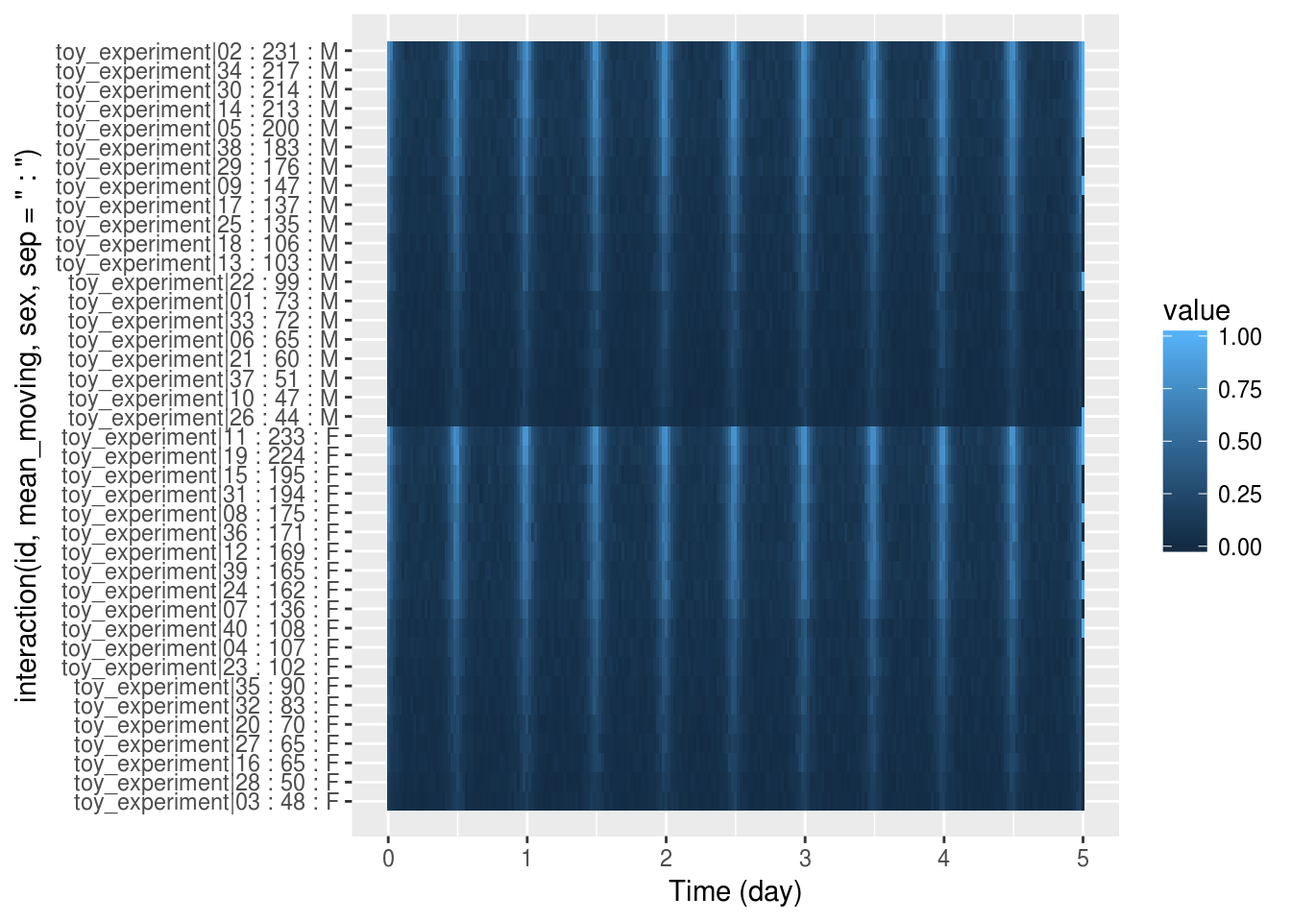
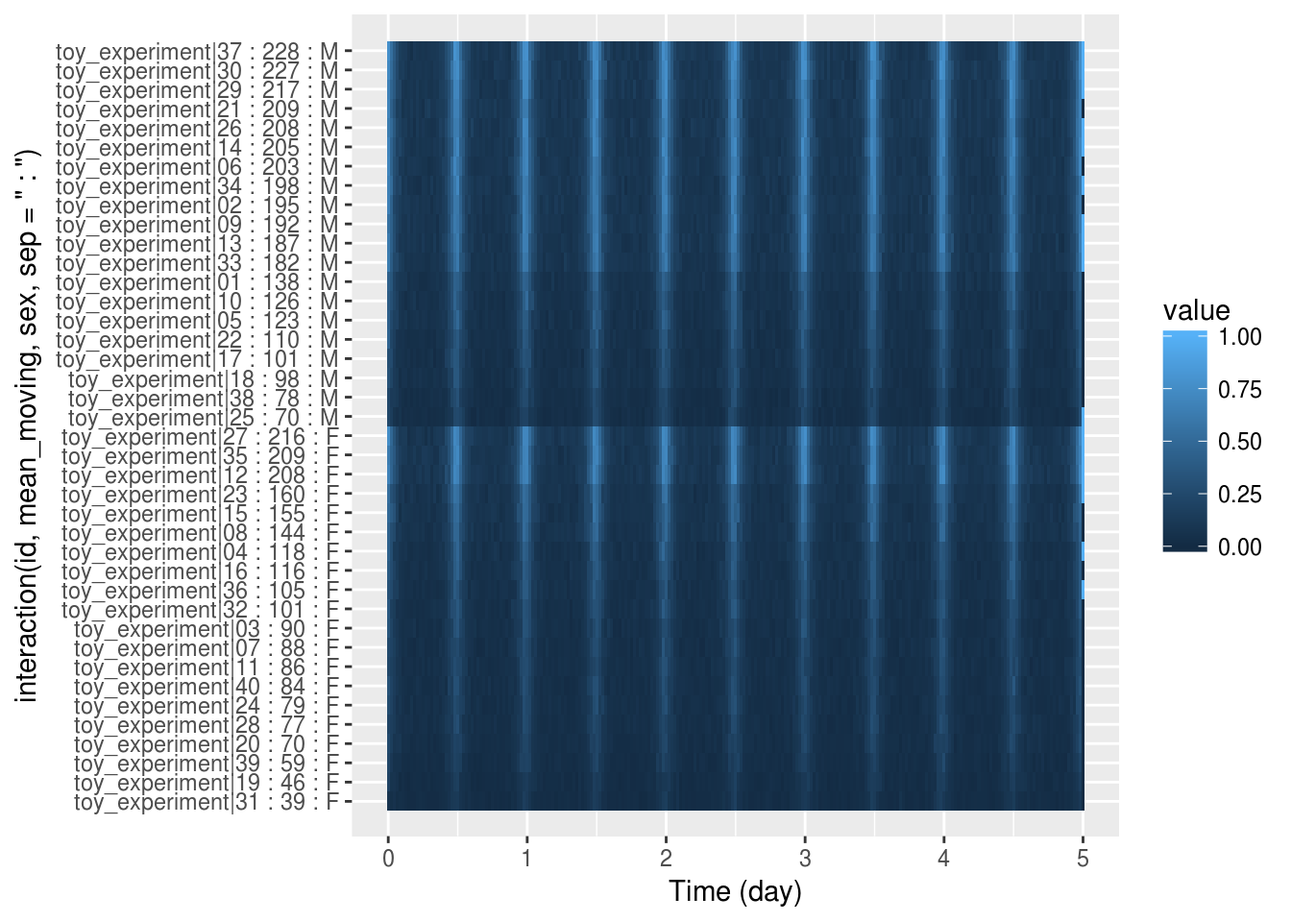
Automatic deployment after 492e4b5802642247e9f9b572acf6d10e69f0e62c [ci skip]

diff --git a/ggetho.html b/ggetho.html
@@ -25,7 +25,7 @@
 <meta name="author" content="Quentin Geissmann">
 
 
-<meta name="date" content="2017-11-21">
+<meta name="date" content="2017-11-22">
 
   <meta name="viewport" content="width=device-width, initial-scale=1">
   <meta name="apple-mobile-web-app-capable" content="yes">
@@ -153,6 +153,8 @@ code > span.in { color: #60a0b0; font-weight: bold; font-style: italic; } /* Inf
 <li class="chapter" data-level="" data-path="ggetho.html"><a href="ggetho.html#basics"><i class="fa fa-check"></i>Basics</a></li>
 <li class="chapter" data-level="" data-path="ggetho.html"><a href="ggetho.html#changing-ld-colours"><i class="fa fa-check"></i>Changing LD colours</a></li>
 <li class="chapter" data-level="" data-path="ggetho.html"><a href="ggetho.html#ld-in-the-background"><i class="fa fa-check"></i>LD in the background</a></li>
+<li class="chapter" data-level="" data-path="ggetho.html"><a href="ggetho.html#phase-and-period"><i class="fa fa-check"></i>Phase and period</a></li>
+<li class="chapter" data-level="" data-path="ggetho.html"><a href="ggetho.html#regime-change"><i class="fa fa-check"></i>Regime change</a></li>
 </ul></li>
 <li class="chapter" data-level="" data-path="ggetho.html"><a href="ggetho.html#coordinate-and-scales"><i class="fa fa-check"></i>Coordinate and scales</a><ul>
 <li class="chapter" data-level="" data-path="ggetho.html"><a href="ggetho.html#plot-limits"><i class="fa fa-check"></i>Plot limits</a></li>
@@ -188,12 +190,12 @@ code > span.in { color: #60a0b0; font-weight: bold; font-style: italic; } /* Inf
 <!-- ![Some sort of slide show?](assets/ethoscope.jpg) -->
 <div id="lessons-from-ggplot" class="section level2 unnumbered">
 <h2>Lessons from ggplot</h2>
-<p>In the previous tutorials, we have used <code>ggetho</code> to visualise out behavioural data. This section will explain furhter how this packakescan be used to produce flexible plots and how it integrates with <code>ggplot2</code>.</p>
-<p><a href="http://ggplot2.org/">ggplot2</a> is one of the most popular visualisation tool, and an unavoidable <code>R</code> package. It implements the powerful concepts of the “Grammar of graphics”. The package <code>ggetho</code>, which we discuss here, extends <code>ggplot</code> for the specific case of behavioural analysis. At this stage, you really want to have some familiarity with <code>ggplot2</code> so you understand its logic. You will find a fair numbers of <a href="https://www.youtube.com/watch?v=TaxJwC_MP9Q">videos</a> and <a href="http://ggplot2.org/book/">books</a> online.</p>
+<p>In the previous tutorials, we have used <code>ggetho</code> to visualise out behavioural data. This section will explain further how this package can be used to produce flexible plots and how it integrates with <code>ggplot2</code>.</p>
+<p><a href="http://ggplot2.org/">ggplot2</a> is one of the most popular visualisation tool and an unavoidable <code>R</code> package. It implements the powerful concepts of the <a href="https://www.cs.uic.edu/~wilkinson/TheGrammarOfGraphics/GOG.html">“Grammar of graphics”</a>. The package <code>ggetho</code>, which we discuss here, extends <code>ggplot</code> for the specific case of behavioural analysis. At this stage, you really want to have some familiarity with <code>ggplot2</code> so you understand its logic. You will find a fair numbers of <a href="https://www.youtube.com/watch?v=TaxJwC_MP9Q">videos</a> and <a href="http://ggplot2.org/book/">books</a> online.</p>
 </div>
 <div id="some-behavioural-data" class="section level2 unnumbered">
 <h2>Some behavioural data</h2>
-<p>In this section, we will <strong>simulate toy behavioural data</strong>. For that, we start by making some arbitrary metadata. Here, we have 40 animals, condition A vs B, and sex, male (“M”) or female (“F”).</p>
+<p>In this section, we will <strong>simulate toy behavioural data</strong>. For that, we start by making some arbitrary metadata. Here, we have 40 animals, condition “A” vs “B”, and sex, male (“M”) or female (“F”).</p>
 <div class="sourceCode"><pre class="sourceCode r"><code class="sourceCode r"><span class="kw">library</span>(ggetho)</code></pre></div>
 <pre><code>## Loading required package: ggplot2</code></pre>
 <div class="sourceCode"><pre class="sourceCode r"><code class="sourceCode r">metadata &lt;-<span class="st"> </span><span class="kw">data.table</span>(<span class="dt">id=</span><span class="kw">sprintf</span>(<span class="st">&quot;toy_experiment|%02d&quot;</span> , <span class="dv">1</span><span class="op">:</span><span class="dv">40</span>), <span class="dt">region_id=</span><span class="dv">1</span><span class="op">:</span><span class="dv">40</span>,
@@ -207,7 +209,7 @@ code > span.in { color: #60a0b0; font-weight: bold; font-style: italic; } /* Inf
 ## 4: toy_experiment|04         4         B   F
 ## 5: toy_experiment|05         5         A   M
 ## 6: toy_experiment|06         6         B   M</code></pre>
-<div class="sourceCode"><pre class="sourceCode r"><code class="sourceCode r">dt &lt;-<span class="st"> </span><span class="kw">toy_activity_data</span>(metadata, <span class="dt">seed=</span><span class="dv">3</span>)</code></pre></div>
+<div class="sourceCode"><pre class="sourceCode r"><code class="sourceCode r">dt &lt;-<span class="st"> </span><span class="kw">toy_activity_data</span>(metadata, <span class="dt">seed=</span><span class="dv">107</span>)</code></pre></div>
 <p>Now, we have a <a href="behavr.html">behavr</a> object, <code>dt</code>:</p>
 <div class="sourceCode"><pre class="sourceCode r"><code class="sourceCode r"><span class="kw">summary</span>(dt)</code></pre></div>
 <pre><code>## behavr table with:
@@ -220,7 +222,7 @@ code > span.in { color: #60a0b0; font-weight: bold; font-style: italic; } /* Inf
 </div>
 <div id="the-ggetho-function" class="section level2 unnumbered">
 <h2>The <code>ggetho()</code> function</h2>
-<p><code>ggetho()</code> is the core function. It expresses the <strong>relationship between variables</strong>. In this respect, it works very much like <code>ggplot()</code>, but it also preprocesses the data.</p>
+<p><code>ggetho()</code> is the core function. It expresses the <strong>relationship between variables</strong>. In this respect, it works very much like <code>ggplot()</code>, but it also pre-processes the data.</p>
 <p>For example if we would like:</p>
 <ul>
 <li>The proportion of time spent <strong>moving, on the y axis</strong></li>
@@ -232,7 +234,7 @@ pl</code></pre></div>
 <p><img src="bookdown-demo_files/figure-html/unnamed-chunk-19-1.png" width="672" /></p>
 <p>This generates an <strong>empty plot</strong> this is normal because we have, so far, <strong>no layer</strong>. We will see some layers very soon!</p>
 <p>The role of ggetho is to express a relationship between variables and to <strong>compute a summary</strong>, over a certain time window, of a variable of interest <strong>for each individual</strong>.</p>
-<p>Importantly, you decide which variable you want to plot. For instance, you could be interested in things like the number (sum) of beam crosses, or the average position</p>
+<p>Importantly, <strong>you decide which variable you want to plot</strong>. For instance, you could be interested in things like the number (sum) of beam crosses or the average position.</p>
 </div>
 <div id="tile-plots" class="section level2 unnumbered">
 <h2>Tile plots</h2>
@@ -242,13 +244,13 @@ pl</code></pre></div>
 <div class="sourceCode"><pre class="sourceCode r"><code class="sourceCode r">pl &lt;-<span class="st"> </span><span class="kw">ggetho</span>(dt, <span class="kw">aes</span>(<span class="dt">x=</span>t, <span class="dt">y=</span>id, <span class="dt">z=</span>moving)) <span class="op">+</span><span class="st"> </span><span class="kw">stat_tile_etho</span>()
 pl</code></pre></div>
 <p><img src="bookdown-demo_files/figure-html/unnamed-chunk-20-1.png" width="672" /></p>
-<p>By defaut, each pixel is the <em>mean</em> (<code>summary_FUN = mean</code>, in <code>ggetho</code>), over 30 min (<code>summary_time_window = mins(30)</code>, in <code>ggetho()</code>). Also, note that the default is <code>x=t</code> and <code>y=id</code>, so we could just obtain exactly the same with <code>ggetho(dt, aes(z=moving)) + stat_tile_etho()</code>.</p>
+<p>By defaut, each pixel is the <strong>mean</strong> (<code>summary_FUN = mean</code>, in <code>ggetho</code>), over 30 min (<code>summary_time_window = mins(30)</code>, in <code>ggetho()</code>). Also, note that the default is <code>x=t</code> and <code>y=id</code>, so we could just obtain exactly the same with <code>ggetho(dt, aes(z=moving)) + stat_tile_etho()</code>.</p>
 </div>
 <div id="sorted-individual" class="section level3 unnumbered">
 <h3>Sorted individual</h3>
-<p>Sometimes, we want to sort individuals based on a metavariable (discrete or continuous). For instance let us compute the overall average fraction of time spent moving to then sort individuals from low to high movers:</p>
+<p>Sometimes, we want to sort individuals based on a metavariable (discrete or continuous). For instance let us compute the overall average fraction of time spent moving, <strong>add it to the metadata</strong>, to then sort individuals from low to high movers:</p>
 <p>First, we add a new metavariable (<code>mean_moving</code>):</p>
-<div class="sourceCode"><pre class="sourceCode r"><code class="sourceCode r"><span class="co"># the average time spent moving per 1000</span>
+<div class="sourceCode"><pre class="sourceCode r"><code class="sourceCode r"><span class="co"># the average time spent moving per 1000 (rounded)</span>
 mean_mov_dt &lt;-<span class="st"> </span>dt[, .(<span class="dt">mean_moving =</span> <span class="kw">round</span>(<span class="kw">mean</span>(moving) <span class="op">*</span><span class="st"> </span><span class="dv">1000</span>)), by=id]
 <span class="co"># join curent meta and the summary table</span>
 new_meta &lt;-<span class="st"> </span>dt[mean_mov_dt, meta=T]
@@ -256,28 +258,29 @@ new_meta &lt;-<span class="st"> </span>dt[mean_mov_dt, meta=T]
 <span class="kw">setmeta</span>(dt, new_meta)
 <span class="kw">head</span>(dt[<span class="dt">meta=</span>T])</code></pre></div>
 <pre><code>##                   id region_id condition sex mean_moving
-## 1: toy_experiment|01         1         A   M          73
-## 2: toy_experiment|02         2         B   M         231
-## 3: toy_experiment|03         3         A   F          48
-## 4: toy_experiment|04         4         B   F         107
-## 5: toy_experiment|05         5         A   M         200
-## 6: toy_experiment|06         6         B   M          65</code></pre>
+## 1: toy_experiment|01         1         A   M         138
+## 2: toy_experiment|02         2         B   M         195
+## 3: toy_experiment|03         3         A   F          90
+## 4: toy_experiment|04         4         B   F         118
+## 5: toy_experiment|05         5         A   M         123
+## 6: toy_experiment|06         6         B   M         203</code></pre>
 <p>Now, we can express a new relationship where we show the <em>interaction</em> between our custom variable and id, on the y axis:</p>
-<div class="sourceCode"><pre class="sourceCode r"><code class="sourceCode r">pl &lt;-<span class="st"> </span><span class="kw">ggetho</span>(dt, <span class="kw">aes</span>(<span class="dt">x=</span>t, <span class="dt">y=</span><span class="kw">interaction</span>(id, mean_moving, <span class="dt">sep =</span> <span class="st">&quot; : &quot;</span>), <span class="dt">z=</span>moving)) <span class="op">+</span><span class="st"> </span>
+<div class="sourceCode"><pre class="sourceCode r"><code class="sourceCode r">pl &lt;-<span class="st"> </span><span class="kw">ggetho</span>(dt, <span class="kw">aes</span>(<span class="dt">x=</span>t, <span class="dt">y=</span><span class="kw">interaction</span>(id, mean_moving, <span class="dt">sep =</span> <span class="st">&quot; : &quot;</span>), <span class="dt">z=</span>moving)) <span class="op">+</span>
 <span class="st">              </span><span class="kw">stat_tile_etho</span>()
 pl</code></pre></div>
-<p><img src="bookdown-demo_files/figure-html/unnamed-chunk-22-1.png" width="672" /> Since we use <code>&quot; : &quot;</code> as a separator, we have, on the y axis, names as <code>&lt;id&gt; : &lt;mean_sleep&gt;</code>. You can extend this concept to sort also by <em>males vs females</em>:</p>
-<div class="sourceCode"><pre class="sourceCode r"><code class="sourceCode r">pl &lt;-<span class="st"> </span><span class="kw">ggetho</span>(dt, <span class="kw">aes</span>(<span class="dt">x=</span>t, <span class="dt">y=</span><span class="kw">interaction</span>(id, mean_moving, sex, <span class="dt">sep =</span> <span class="st">&quot; : &quot;</span>), <span class="dt">z=</span>moving)) <span class="op">+</span><span class="st"> </span>
+<p><img src="bookdown-demo_files/figure-html/unnamed-chunk-22-1.png" width="672" /></p>
+<p>Since we use <code>&quot; : &quot;</code> as a separator, we have, on the y axis, names as <code>&lt;id&gt; : &lt;mean_sleep&gt;</code>. You can extend this concept to sort also by <em>males vs females</em>:</p>
+<div class="sourceCode"><pre class="sourceCode r"><code class="sourceCode r">pl &lt;-<span class="st"> </span><span class="kw">ggetho</span>(dt, <span class="kw">aes</span>(<span class="dt">x=</span>t, <span class="dt">y=</span><span class="kw">interaction</span>(id, mean_moving, sex, <span class="dt">sep =</span> <span class="st">&quot; : &quot;</span>), <span class="dt">z=</span>moving)) <span class="op">+</span>
 <span class="st">              </span><span class="kw">stat_tile_etho</span>()
 pl</code></pre></div>
 <p><img src="bookdown-demo_files/figure-html/unnamed-chunk-23-1.png" width="672" /></p>
 </div>
 <div id="group-averages" class="section level3 unnumbered">
 <h3>Group averages</h3>
-<p>Sometimes, we also want to aggregate inviduals per group. For instance, males <strong>average</strong> vs females <strong>average</strong>:</p>
+<p>Sometimes, we also want to aggregate individuals per group. For instance, males <strong>average</strong> vs females <strong>average</strong>:</p>
 <div class="sourceCode"><pre class="sourceCode r"><code class="sourceCode r">pl &lt;-<span class="st"> </span><span class="kw">ggetho</span>(dt, <span class="kw">aes</span>(<span class="dt">x=</span>t, <span class="dt">y=</span>sex, <span class="dt">z=</span>moving)) <span class="op">+</span><span class="st"> </span><span class="kw">stat_tile_etho</span>()
 pl</code></pre></div>
-<p><img src="bookdown-demo_files/figure-html/unnamed-chunk-24-1.png" width="672" /> In this context, every row is not an individual anymore, but a group. The <code>method</code> argument of <code>stat_tile_etho()</code> allows you to use other aggregates (median, max, min, …).</p>
+<p><img src="bookdown-demo_files/figure-html/unnamed-chunk-24-1.png" width="672" /> In this context, every row is not an individual any more, but a group. The <code>method</code> argument of <code>stat_tile_etho()</code> allows you to use other aggregates (median, max, min, …).</p>
 </div>
 </div>
 <div id="population-plots" class="section level2 unnumbered">
@@ -297,14 +300,14 @@ pl</code></pre></div>
 pl</code></pre></div>
 <p><img src="bookdown-demo_files/figure-html/unnamed-chunk-26-1.png" width="672" /></p>
 <p>Another way, is to use <code>ggplot</code>’s faceting system:</p>
-<div class="sourceCode"><pre class="sourceCode r"><code class="sourceCode r">pl &lt;-<span class="st"> </span><span class="kw">ggetho</span>(dt, <span class="kw">aes</span>(<span class="dt">x=</span>t, <span class="dt">y=</span>moving)) <span class="op">+</span><span class="st"> </span><span class="kw">stat_pop_etho</span>() <span class="op">+</span><span class="st"> </span>
-<span class="st">            </span><span class="kw">facet_grid</span>(. <span class="op">~</span><span class="st"> </span>sex)
+<div class="sourceCode"><pre class="sourceCode r"><code class="sourceCode r">pl &lt;-<span class="st"> </span><span class="kw">ggetho</span>(dt, <span class="kw">aes</span>(<span class="dt">x=</span>t, <span class="dt">y=</span>moving)) <span class="op">+</span><span class="st"> </span><span class="kw">stat_pop_etho</span>() <span class="op">+</span>
+<span class="st">            </span><span class="kw">facet_grid</span>(sex <span class="op">~</span><span class="st"> </span>.)
 pl</code></pre></div>
 <p><img src="bookdown-demo_files/figure-html/unnamed-chunk-27-1.png" width="672" /></p>
 <p>Of course, you can combine both when you have more than one relevant metavariable:</p>
-<div class="sourceCode"><pre class="sourceCode r"><code class="sourceCode r">pl &lt;-<span class="st"> </span><span class="kw">ggetho</span>(dt, <span class="kw">aes</span>(<span class="dt">x=</span>t, <span class="dt">y=</span>moving, <span class="dt">colour =</span> sex)) <span class="op">+</span><span class="st"> </span>
-<span class="st">              </span><span class="kw">stat_pop_etho</span>() <span class="op">+</span><span class="st"> </span>
-<span class="st">              </span><span class="kw">facet_grid</span>(. <span class="op">~</span><span class="st"> </span>condition)
+<div class="sourceCode"><pre class="sourceCode r"><code class="sourceCode r">pl &lt;-<span class="st"> </span><span class="kw">ggetho</span>(dt, <span class="kw">aes</span>(<span class="dt">x=</span>t, <span class="dt">y=</span>moving, <span class="dt">colour =</span> sex)) <span class="op">+</span>
+<span class="st">              </span><span class="kw">stat_pop_etho</span>() <span class="op">+</span>
+<span class="st">              </span><span class="kw">facet_grid</span>( condition <span class="op">~</span><span class="st"> </span>.)
 pl</code></pre></div>
 <p><img src="bookdown-demo_files/figure-html/unnamed-chunk-28-1.png" width="672" /></p>
 </div>
@@ -337,12 +340,41 @@ pl</code></pre></div>
 <div id="ld-in-the-background" class="section level3 unnumbered">
 <h3>LD in the background</h3>
 <p>To put the annotation in the background, we can invert the order of the layers, set the heigh of the annotation to 1 (100%) and add some transparency (<code>alpha = 0.3</code>). We also remove the outline of the boxes:</p>
-<div class="sourceCode"><pre class="sourceCode r"><code class="sourceCode r">pl &lt;-<span class="st"> </span><span class="kw">ggetho</span>(dt, <span class="kw">aes</span>(<span class="dt">x=</span>t, <span class="dt">y=</span>moving)) <span class="op">+</span><span class="st"> </span>
-<span class="st">            </span><span class="kw">stat_ld_annotations</span>(<span class="dt">height=</span><span class="dv">1</span>, <span class="dt">alpha=</span><span class="fl">0.3</span>, <span class="dt">outline =</span> <span class="ot">NA</span>) <span class="op">+</span><span class="st"> </span>
+<div class="sourceCode"><pre class="sourceCode r"><code class="sourceCode r">pl &lt;-<span class="st"> </span><span class="kw">ggetho</span>(dt, <span class="kw">aes</span>(<span class="dt">x=</span>t, <span class="dt">y=</span>moving)) <span class="op">+</span>
+<span class="st">            </span><span class="kw">stat_ld_annotations</span>(<span class="dt">height=</span><span class="dv">1</span>, <span class="dt">alpha=</span><span class="fl">0.3</span>, <span class="dt">outline =</span> <span class="ot">NA</span>) <span class="op">+</span>
 <span class="st">            </span><span class="kw">stat_pop_etho</span>()
 pl</code></pre></div>
 <p><img src="bookdown-demo_files/figure-html/unnamed-chunk-32-1.png" width="672" /></p>
-<p>You can also play with the phase and periods of the annotations (see the documentation).</p>
+</div>
+<div id="phase-and-period" class="section level3 unnumbered">
+<h3>Phase and period</h3>
+<p>Sometimes you want to show annotations with different phases and periods. For instance, here, we shift the LD annotations 1h forward:</p>
+<div class="sourceCode"><pre class="sourceCode r"><code class="sourceCode r">pl &lt;-<span class="st"> </span><span class="kw">ggetho</span>(dt, <span class="kw">aes</span>(<span class="dt">x=</span>t, <span class="dt">y=</span>moving)) <span class="op">+</span>
+<span class="st">            </span><span class="kw">stat_ld_annotations</span>(<span class="dt">phase =</span> <span class="kw">hours</span>(<span class="dv">1</span>)) <span class="op">+</span>
+<span class="st">            </span><span class="kw">stat_pop_etho</span>()
+pl</code></pre></div>
+<p><img src="bookdown-demo_files/figure-html/unnamed-chunk-33-1.png" width="672" /></p>
+<p>One can also plot over a period different from 24h, say 20h days:</p>
+<div class="sourceCode"><pre class="sourceCode r"><code class="sourceCode r">pl &lt;-<span class="st"> </span><span class="kw">ggetho</span>(dt, <span class="kw">aes</span>(<span class="dt">x=</span>t, <span class="dt">y=</span>moving)) <span class="op">+</span>
+<span class="st">            </span><span class="kw">stat_ld_annotations</span>(<span class="dt">period =</span> <span class="kw">hours</span>(<span class="dv">20</span>)) <span class="op">+</span>
+<span class="st">            </span><span class="kw">stat_pop_etho</span>()
+pl</code></pre></div>
+<p><img src="bookdown-demo_files/figure-html/unnamed-chunk-34-1.png" width="672" /></p>
+</div>
+<div id="regime-change" class="section level3 unnumbered">
+<h3>Regime change</h3>
+<p>When, you want to indicate a change in regime, say from LD to DD. A simple way is to use multiple layers with explicit start and end points:</p>
+<div class="sourceCode"><pre class="sourceCode r"><code class="sourceCode r">pl &lt;-<span class="st"> </span><span class="kw">ggetho</span>(dt, <span class="kw">aes</span>(<span class="dt">x=</span>t, <span class="dt">y=</span>moving)) <span class="op">+</span>
+<span class="st">            </span><span class="co"># the default annotation layer</span>
+<span class="st">            </span><span class="kw">stat_ld_annotations</span>() <span class="op">+</span>
+<span class="st">            </span><span class="co"># on top of it, a second layer that</span>
+<span class="st">            </span><span class="co"># starts at day 2 thoughout day 5,</span>
+<span class="st">            </span><span class="co"># and where L colour is grey</span>
+<span class="st">            </span><span class="kw">stat_ld_annotations</span>(<span class="dt">x_limits =</span> <span class="kw">days</span>(<span class="kw">c</span>(<span class="dv">2</span>,<span class="dv">5</span>)),
+                                <span class="dt">ld_colours =</span> <span class="kw">c</span>(<span class="st">&quot;grey&quot;</span>, <span class="st">&quot;black&quot;</span> )) <span class="op">+</span>
+<span class="st">            </span><span class="kw">stat_pop_etho</span>()
+pl</code></pre></div>
+<p><img src="bookdown-demo_files/figure-html/unnamed-chunk-35-1.png" width="672" /></p>
 </div>
 </div>
 <div id="coordinate-and-scales" class="section level2 unnumbered">
@@ -350,14 +382,15 @@ pl</code></pre></div>
 <div id="plot-limits" class="section level3 unnumbered">
 <h3>Plot limits</h3>
 <p>As <code>ggetho</code> creates regular ggplot objects, which we can extend. For instance, we can change the scales. For instance, put the y scale as a percentage between 0 and 100:</p>
-<div class="sourceCode"><pre class="sourceCode r"><code class="sourceCode r">pl &lt;-<span class="st"> </span><span class="kw">ggetho</span>(dt, <span class="kw">aes</span>(<span class="dt">x=</span>t, <span class="dt">y=</span>moving)) <span class="op">+</span><span class="st"> </span><span class="kw">stat_pop_etho</span>() <span class="op">+</span><span class="st"> </span>
+<div class="sourceCode"><pre class="sourceCode r"><code class="sourceCode r">pl &lt;-<span class="st"> </span><span class="kw">ggetho</span>(dt, <span class="kw">aes</span>(<span class="dt">x=</span>t, <span class="dt">y=</span>moving)) <span class="op">+</span><span class="st"> </span><span class="kw">stat_pop_etho</span>() <span class="op">+</span>
 <span class="st">        </span><span class="kw">stat_ld_annotations</span>()
-pl &lt;-<span class="st"> </span>pl <span class="op">+</span><span class="st"> </span><span class="kw">scale_y_continuous</span>(<span class="dt">limits =</span> <span class="kw">c</span>(<span class="dv">0</span>,<span class="dv">1</span>), <span class="dt">labels =</span> scales<span class="op">::</span>percent)
+pl &lt;-<span class="st"> </span>pl <span class="op">+</span><span class="st"> </span><span class="kw">scale_y_continuous</span>(<span class="dt">limits =</span> <span class="kw">c</span>(<span class="dv">0</span>,<span class="dv">1</span>),
+                              <span class="dt">labels =</span> scales<span class="op">::</span>percent)
 pl</code></pre></div>
-<p><img src="bookdown-demo_files/figure-html/unnamed-chunk-33-1.png" width="672" /></p>
+<p><img src="bookdown-demo_files/figure-html/unnamed-chunk-36-1.png" width="672" /></p>
 <p>We can also use the same principle to zoom in a finished plot. E.g. between day one and day two:</p>
 <div class="sourceCode"><pre class="sourceCode r"><code class="sourceCode r">pl <span class="op">+</span><span class="st"> </span><span class="kw">coord_cartesian</span>(<span class="dt">xlim=</span><span class="kw">c</span>(<span class="kw">days</span>(<span class="dv">1</span>), <span class="kw">days</span>(<span class="dv">2</span>)))</code></pre></div>
-<p><img src="bookdown-demo_files/figure-html/unnamed-chunk-34-1.png" width="672" /></p>
+<p><img src="bookdown-demo_files/figure-html/unnamed-chunk-37-1.png" width="672" /></p>
 </div>
 <div id="time-scale-units" class="section level3 unnumbered">
 <h3>Time scale units</h3>
@@ -365,17 +398,21 @@ pl</code></pre></div>
 <div class="sourceCode"><pre class="sourceCode r"><code class="sourceCode r">pl <span class="op">+</span><span class="st"> </span>ggetho<span class="op">::</span><span class="kw">scale_x_hours</span>()</code></pre></div>
 <pre><code>## Scale for &#39;x&#39; is already present. Adding another scale for &#39;x&#39;, which
 ## will replace the existing scale.</code></pre>
-<p><img src="bookdown-demo_files/figure-html/unnamed-chunk-35-1.png" width="672" /> It actually warns you that you are replacing the scale. Which is fine (as it is precesely what we wanted)!</p>
+<p><img src="bookdown-demo_files/figure-html/unnamed-chunk-38-1.png" width="672" /></p>
+<p><code>R</code> actually warns you since you are replacing the scale. Which is fine (as it is precisely what we wanted)!</p>
 </div>
 <div id="coordinate-systems" class="section level3 unnumbered">
 <h3>Coordinate systems</h3>
 <p>Sometimes, it makes sense to use <strong>polar coordinates</strong> to show data around the clock:</p>
 <div class="sourceCode"><pre class="sourceCode r"><code class="sourceCode r">pl &lt;-<span class="st"> </span><span class="kw">ggetho</span>(dt, <span class="kw">aes</span>(<span class="dt">x=</span>t, <span class="dt">y=</span>moving, <span class="dt">colour=</span>sex), <span class="dt">time_wrap =</span> <span class="kw">days</span>(<span class="dv">1</span>)) <span class="op">+</span>
-<span class="st">          </span><span class="kw">stat_ld_annotations</span>(<span class="dt">height=</span>.<span class="dv">5</span>, <span class="dt">alpha=</span>.<span class="dv">2</span>, <span class="dt">x_limits =</span> <span class="kw">c</span>(<span class="dv">0</span>, <span class="kw">days</span>(<span class="dv">1</span>)), <span class="dt">outline =</span> <span class="ot">NA</span>) <span class="op">+</span>
+<span class="st">          </span><span class="kw">stat_ld_annotations</span>(<span class="dt">height=</span>.<span class="dv">5</span>,
+                              <span class="dt">alpha=</span>.<span class="dv">2</span>,
+                              <span class="dt">x_limits =</span> <span class="kw">c</span>(<span class="dv">0</span>, <span class="kw">days</span>(<span class="dv">1</span>)),
+                              <span class="dt">outline =</span> <span class="ot">NA</span>) <span class="op">+</span>
 <span class="st">          </span><span class="kw">stat_pop_etho</span>(<span class="dt">geom =</span> <span class="st">&quot;polygon&quot;</span>, <span class="dt">fill=</span><span class="ot">NA</span>)
 
 pl <span class="op">+</span><span class="st"> </span><span class="kw">coord_polar</span>()</code></pre></div>
-<p><img src="bookdown-demo_files/figure-html/unnamed-chunk-36-1.png" width="672" /></p>
+<p><img src="bookdown-demo_files/figure-html/unnamed-chunk-39-1.png" width="672" /></p>
 </div>
 </div>
 <div id="miscelaneous" class="section level2 unnumbered">
@@ -385,10 +422,11 @@ pl <span class="op">+</span><span class="st"> </span><span class="kw">coord_pola
 <li>Use other geom</li>
 <li>annotate</li>
 <li>change title</li>
-<li>Axis names <!--  
-title
- --></li>
+<li>Axis names</li>
 </ul>
+<!-- 
+title
+ -->
 
 </div>
 </div>

diff --git a/intro.html b/intro.html
@@ -25,7 +25,7 @@
 <meta name="author" content="Quentin Geissmann">
 
 
-<meta name="date" content="2017-11-21">
+<meta name="date" content="2017-11-22">
 
   <meta name="viewport" content="width=device-width, initial-scale=1">
   <meta name="apple-mobile-web-app-capable" content="yes">
@@ -153,6 +153,8 @@ code > span.in { color: #60a0b0; font-weight: bold; font-style: italic; } /* Inf
 <li class="chapter" data-level="" data-path="ggetho.html"><a href="ggetho.html#basics"><i class="fa fa-check"></i>Basics</a></li>
 <li class="chapter" data-level="" data-path="ggetho.html"><a href="ggetho.html#changing-ld-colours"><i class="fa fa-check"></i>Changing LD colours</a></li>
 <li class="chapter" data-level="" data-path="ggetho.html"><a href="ggetho.html#ld-in-the-background"><i class="fa fa-check"></i>LD in the background</a></li>
+<li class="chapter" data-level="" data-path="ggetho.html"><a href="ggetho.html#phase-and-period"><i class="fa fa-check"></i>Phase and period</a></li>
+<li class="chapter" data-level="" data-path="ggetho.html"><a href="ggetho.html#regime-change"><i class="fa fa-check"></i>Regime change</a></li>
 </ul></li>
 <li class="chapter" data-level="" data-path="ggetho.html"><a href="ggetho.html#coordinate-and-scales"><i class="fa fa-check"></i>Coordinate and scales</a><ul>
 <li class="chapter" data-level="" data-path="ggetho.html"><a href="ggetho.html#plot-limits"><i class="fa fa-check"></i>Plot limits</a></li>
@@ -189,7 +191,7 @@ code > span.in { color: #60a0b0; font-weight: bold; font-style: italic; } /* Inf
 </div>
 <div id="installing-rethomics-packages" class="section level2 unnumbered">
 <h2>Installing rethomics packages</h2>
-<p>As of today (2017-11-21), <code>rethomics</code> packages are not on CRAN, the official R package archive yet. Therefore, we will install the developmental version.</p>
+<p>As of today (2017-11-22), <code>rethomics</code> packages are not on CRAN, the official R package archive yet. Therefore, we will install the developmental version.</p>
 <p>As a prerequisite, we need to install (once for all) <code>devtools</code> and load it:</p>
 <div class="sourceCode"><pre class="sourceCode r"><code class="sourceCode r"><span class="kw">install.packages</span>(<span class="st">&quot;devtools&quot;</span>)
 <span class="kw">library</span>(devtools)</code></pre></div>

diff --git a/index.html b/index.html
@@ -25,7 +25,7 @@
 <meta name="author" content="Quentin Geissmann">
 
 
-<meta name="date" content="2017-11-21">
+<meta name="date" content="2017-11-22">
 
   <meta name="viewport" content="width=device-width, initial-scale=1">
   <meta name="apple-mobile-web-app-capable" content="yes">
@@ -153,6 +153,8 @@ code > span.in { color: #60a0b0; font-weight: bold; font-style: italic; } /* Inf
 <li class="chapter" data-level="" data-path="ggetho.html"><a href="ggetho.html#basics"><i class="fa fa-check"></i>Basics</a></li>
 <li class="chapter" data-level="" data-path="ggetho.html"><a href="ggetho.html#changing-ld-colours"><i class="fa fa-check"></i>Changing LD colours</a></li>
 <li class="chapter" data-level="" data-path="ggetho.html"><a href="ggetho.html#ld-in-the-background"><i class="fa fa-check"></i>LD in the background</a></li>
+<li class="chapter" data-level="" data-path="ggetho.html"><a href="ggetho.html#phase-and-period"><i class="fa fa-check"></i>Phase and period</a></li>
+<li class="chapter" data-level="" data-path="ggetho.html"><a href="ggetho.html#regime-change"><i class="fa fa-check"></i>Regime change</a></li>
 </ul></li>
 <li class="chapter" data-level="" data-path="ggetho.html"><a href="ggetho.html#coordinate-and-scales"><i class="fa fa-check"></i>Coordinate and scales</a><ul>
 <li class="chapter" data-level="" data-path="ggetho.html"><a href="ggetho.html#plot-limits"><i class="fa fa-check"></i>Plot limits</a></li>
@@ -184,7 +186,7 @@ code > span.in { color: #60a0b0; font-weight: bold; font-style: italic; } /* Inf
 <div id="header">
 <h1 class="title">Rethomics, a framework for high-throughput behaviour analysis in R</h1>
 <h4 class="author"><em>Quentin Geissmann</em></h4>
-<h4 class="date"><em>2017-11-21</em></h4>
+<h4 class="date"><em>2017-11-22</em></h4>
 </div>
 <div id="introduction" class="section level1 unnumbered">
 <h1>Introduction</h1>

diff --git a/behavr.html b/behavr.html
@@ -25,7 +25,7 @@
 <meta name="author" content="Quentin Geissmann">
 
 
-<meta name="date" content="2017-11-21">
+<meta name="date" content="2017-11-22">
 
   <meta name="viewport" content="width=device-width, initial-scale=1">
   <meta name="apple-mobile-web-app-capable" content="yes">
@@ -153,6 +153,8 @@ code > span.in { color: #60a0b0; font-weight: bold; font-style: italic; } /* Inf
 <li class="chapter" data-level="" data-path="ggetho.html"><a href="ggetho.html#basics"><i class="fa fa-check"></i>Basics</a></li>
 <li class="chapter" data-level="" data-path="ggetho.html"><a href="ggetho.html#changing-ld-colours"><i class="fa fa-check"></i>Changing LD colours</a></li>
 <li class="chapter" data-level="" data-path="ggetho.html"><a href="ggetho.html#ld-in-the-background"><i class="fa fa-check"></i>LD in the background</a></li>
+<li class="chapter" data-level="" data-path="ggetho.html"><a href="ggetho.html#phase-and-period"><i class="fa fa-check"></i>Phase and period</a></li>
+<li class="chapter" data-level="" data-path="ggetho.html"><a href="ggetho.html#regime-change"><i class="fa fa-check"></i>Regime change</a></li>
 </ul></li>
 <li class="chapter" data-level="" data-path="ggetho.html"><a href="ggetho.html#coordinate-and-scales"><i class="fa fa-check"></i>Coordinate and scales</a><ul>
 <li class="chapter" data-level="" data-path="ggetho.html"><a href="ggetho.html#plot-limits"><i class="fa fa-check"></i>Plot limits</a></li>

diff --git a/dam-sleep.html b/dam-sleep.html
@@ -25,7 +25,7 @@
 <meta name="author" content="Quentin Geissmann">
 
 
-<meta name="date" content="2017-11-21">
+<meta name="date" content="2017-11-22">
 
   <meta name="viewport" content="width=device-width, initial-scale=1">
   <meta name="apple-mobile-web-app-capable" content="yes">
@@ -153,6 +153,8 @@ code > span.in { color: #60a0b0; font-weight: bold; font-style: italic; } /* Inf
 <li class="chapter" data-level="" data-path="ggetho.html"><a href="ggetho.html#basics"><i class="fa fa-check"></i>Basics</a></li>
 <li class="chapter" data-level="" data-path="ggetho.html"><a href="ggetho.html#changing-ld-colours"><i class="fa fa-check"></i>Changing LD colours</a></li>
 <li class="chapter" data-level="" data-path="ggetho.html"><a href="ggetho.html#ld-in-the-background"><i class="fa fa-check"></i>LD in the background</a></li>
+<li class="chapter" data-level="" data-path="ggetho.html"><a href="ggetho.html#phase-and-period"><i class="fa fa-check"></i>Phase and period</a></li>
+<li class="chapter" data-level="" data-path="ggetho.html"><a href="ggetho.html#regime-change"><i class="fa fa-check"></i>Regime change</a></li>
 </ul></li>
 <li class="chapter" data-level="" data-path="ggetho.html"><a href="ggetho.html#coordinate-and-scales"><i class="fa fa-check"></i>Coordinate and scales</a><ul>
 <li class="chapter" data-level="" data-path="ggetho.html"><a href="ggetho.html#plot-limits"><i class="fa fa-check"></i>Plot limits</a></li>

diff --git a/etho-sleep.html b/etho-sleep.html
@@ -25,7 +25,7 @@
 <meta name="author" content="Quentin Geissmann">
 
 
-<meta name="date" content="2017-11-21">
+<meta name="date" content="2017-11-22">
 
   <meta name="viewport" content="width=device-width, initial-scale=1">
   <meta name="apple-mobile-web-app-capable" content="yes">
@@ -153,6 +153,8 @@ code > span.in { color: #60a0b0; font-weight: bold; font-style: italic; } /* Inf
 <li class="chapter" data-level="" data-path="ggetho.html"><a href="ggetho.html#basics"><i class="fa fa-check"></i>Basics</a></li>
 <li class="chapter" data-level="" data-path="ggetho.html"><a href="ggetho.html#changing-ld-colours"><i class="fa fa-check"></i>Changing LD colours</a></li>
 <li class="chapter" data-level="" data-path="ggetho.html"><a href="ggetho.html#ld-in-the-background"><i class="fa fa-check"></i>LD in the background</a></li>
+<li class="chapter" data-level="" data-path="ggetho.html"><a href="ggetho.html#phase-and-period"><i class="fa fa-check"></i>Phase and period</a></li>
+<li class="chapter" data-level="" data-path="ggetho.html"><a href="ggetho.html#regime-change"><i class="fa fa-check"></i>Regime change</a></li>
 </ul></li>
 <li class="chapter" data-level="" data-path="ggetho.html"><a href="ggetho.html#coordinate-and-scales"><i class="fa fa-check"></i>Coordinate and scales</a><ul>
 <li class="chapter" data-level="" data-path="ggetho.html"><a href="ggetho.html#plot-limits"><i class="fa fa-check"></i>Plot limits</a></li>

diff --git a/metadata.html b/metadata.html
@@ -25,7 +25,7 @@
 <meta name="author" content="Quentin Geissmann">
 
 
-<meta name="date" content="2017-11-21">
+<meta name="date" content="2017-11-22">
 
   <meta name="viewport" content="width=device-width, initial-scale=1">
   <meta name="apple-mobile-web-app-capable" content="yes">
@@ -153,6 +153,8 @@ code > span.in { color: #60a0b0; font-weight: bold; font-style: italic; } /* Inf
 <li class="chapter" data-level="" data-path="ggetho.html"><a href="ggetho.html#basics"><i class="fa fa-check"></i>Basics</a></li>
 <li class="chapter" data-level="" data-path="ggetho.html"><a href="ggetho.html#changing-ld-colours"><i class="fa fa-check"></i>Changing LD colours</a></li>
 <li class="chapter" data-level="" data-path="ggetho.html"><a href="ggetho.html#ld-in-the-background"><i class="fa fa-check"></i>LD in the background</a></li>
+<li class="chapter" data-level="" data-path="ggetho.html"><a href="ggetho.html#phase-and-period"><i class="fa fa-check"></i>Phase and period</a></li>
+<li class="chapter" data-level="" data-path="ggetho.html"><a href="ggetho.html#regime-change"><i class="fa fa-check"></i>Regime change</a></li>
 </ul></li>
 <li class="chapter" data-level="" data-path="ggetho.html"><a href="ggetho.html#coordinate-and-scales"><i class="fa fa-check"></i>Coordinate and scales</a><ul>
 <li class="chapter" data-level="" data-path="ggetho.html"><a href="ggetho.html#plot-limits"><i class="fa fa-check"></i>Plot limits</a></li>

diff --git a/workflow.html b/workflow.html
@@ -25,7 +25,7 @@
 <meta name="author" content="Quentin Geissmann">
 
 
-<meta name="date" content="2017-11-21">
+<meta name="date" content="2017-11-22">
 
   <meta name="viewport" content="width=device-width, initial-scale=1">
   <meta name="apple-mobile-web-app-capable" content="yes">
@@ -153,6 +153,8 @@ code > span.in { color: #60a0b0; font-weight: bold; font-style: italic; } /* Inf
 <li class="chapter" data-level="" data-path="ggetho.html"><a href="ggetho.html#basics"><i class="fa fa-check"></i>Basics</a></li>
 <li class="chapter" data-level="" data-path="ggetho.html"><a href="ggetho.html#changing-ld-colours"><i class="fa fa-check"></i>Changing LD colours</a></li>
 <li class="chapter" data-level="" data-path="ggetho.html"><a href="ggetho.html#ld-in-the-background"><i class="fa fa-check"></i>LD in the background</a></li>
+<li class="chapter" data-level="" data-path="ggetho.html"><a href="ggetho.html#phase-and-period"><i class="fa fa-check"></i>Phase and period</a></li>
+<li class="chapter" data-level="" data-path="ggetho.html"><a href="ggetho.html#regime-change"><i class="fa fa-check"></i>Regime change</a></li>
 </ul></li>
 <li class="chapter" data-level="" data-path="ggetho.html"><a href="ggetho.html#coordinate-and-scales"><i class="fa fa-check"></i>Coordinate and scales</a><ul>
 <li class="chapter" data-level="" data-path="ggetho.html"><a href="ggetho.html#plot-limits"><i class="fa fa-check"></i>Plot limits</a></li>
